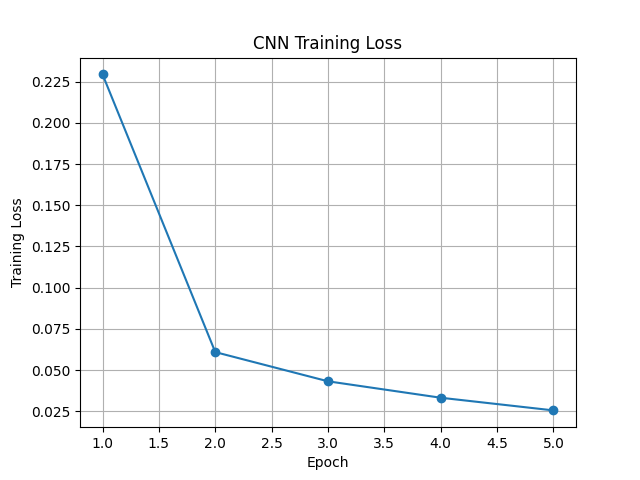
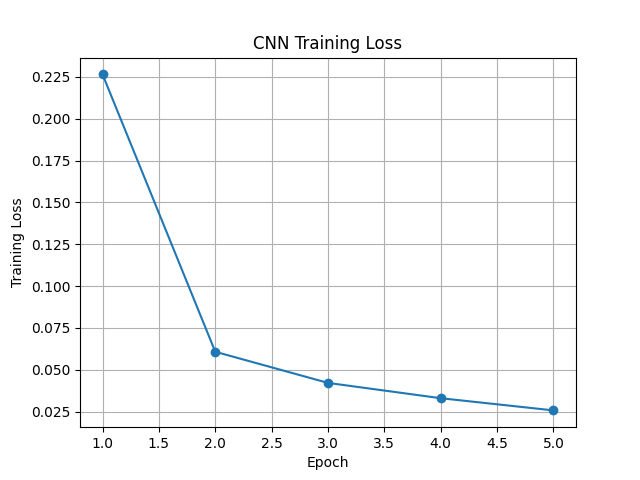
Add confusion matrix evaluation

diff --git a/mnist_cnn_with_plots.py b/mnist_cnn_with_plots.py
@@ -4,6 +4,7 @@ import torch.optim as optim
 from torchvision import datasets, transforms
 from torch.utils.data import DataLoader
 import matplotlib.pyplot as plt
+from sklearn.metrics import confusion_matrix, ConfusionMatrixDisplay
 
 
 # Convert images to tensors
@@ -64,6 +65,8 @@ epochs = 5
 
 train_losses = []
 test_accuracies = []
+all_labels = []
+all_predictions = []
 
 for epoch in range(epochs):
     model.train()
@@ -94,6 +97,17 @@ for epoch in range(epochs):
 
             total += labels.size(0)
             correct += (predicted == labels).sum().item()
+    with torch.no_grad():
+        for images, labels in test_loader:
+            outputs = model(images)
+            _, predicted = torch.max(outputs, 1)
+
+            total += labels.size(0)
+            correct += (predicted == labels).sum().item()
+
+            if epoch == epochs - 1:
+                all_labels.extend(labels.numpy())
+                all_predictions.extend(predicted.numpy())
 
     accuracy = 100 * correct / total
     test_accuracies.append(accuracy)
@@ -141,6 +155,17 @@ plt.axis("off")
 plt.savefig("cnn_prediction_example.png")
 plt.show()
 
+# Plot confusion matrix
+cm = confusion_matrix(all_labels, all_predictions)
+display = ConfusionMatrixDisplay(confusion_matrix=cm)
+
+plt.figure(figsize=(8, 8))
+display.plot()
+plt.title("CNN Confusion Matrix")
+plt.savefig("cnn_confusion_matrix.png")
+plt.close()
+
+print("Confusion matrix saved as cnn_confusion_matrix.png")
 
 # Save CNN model
 torch.save(model.state_dict(), "mnist_cnn_model.pth")